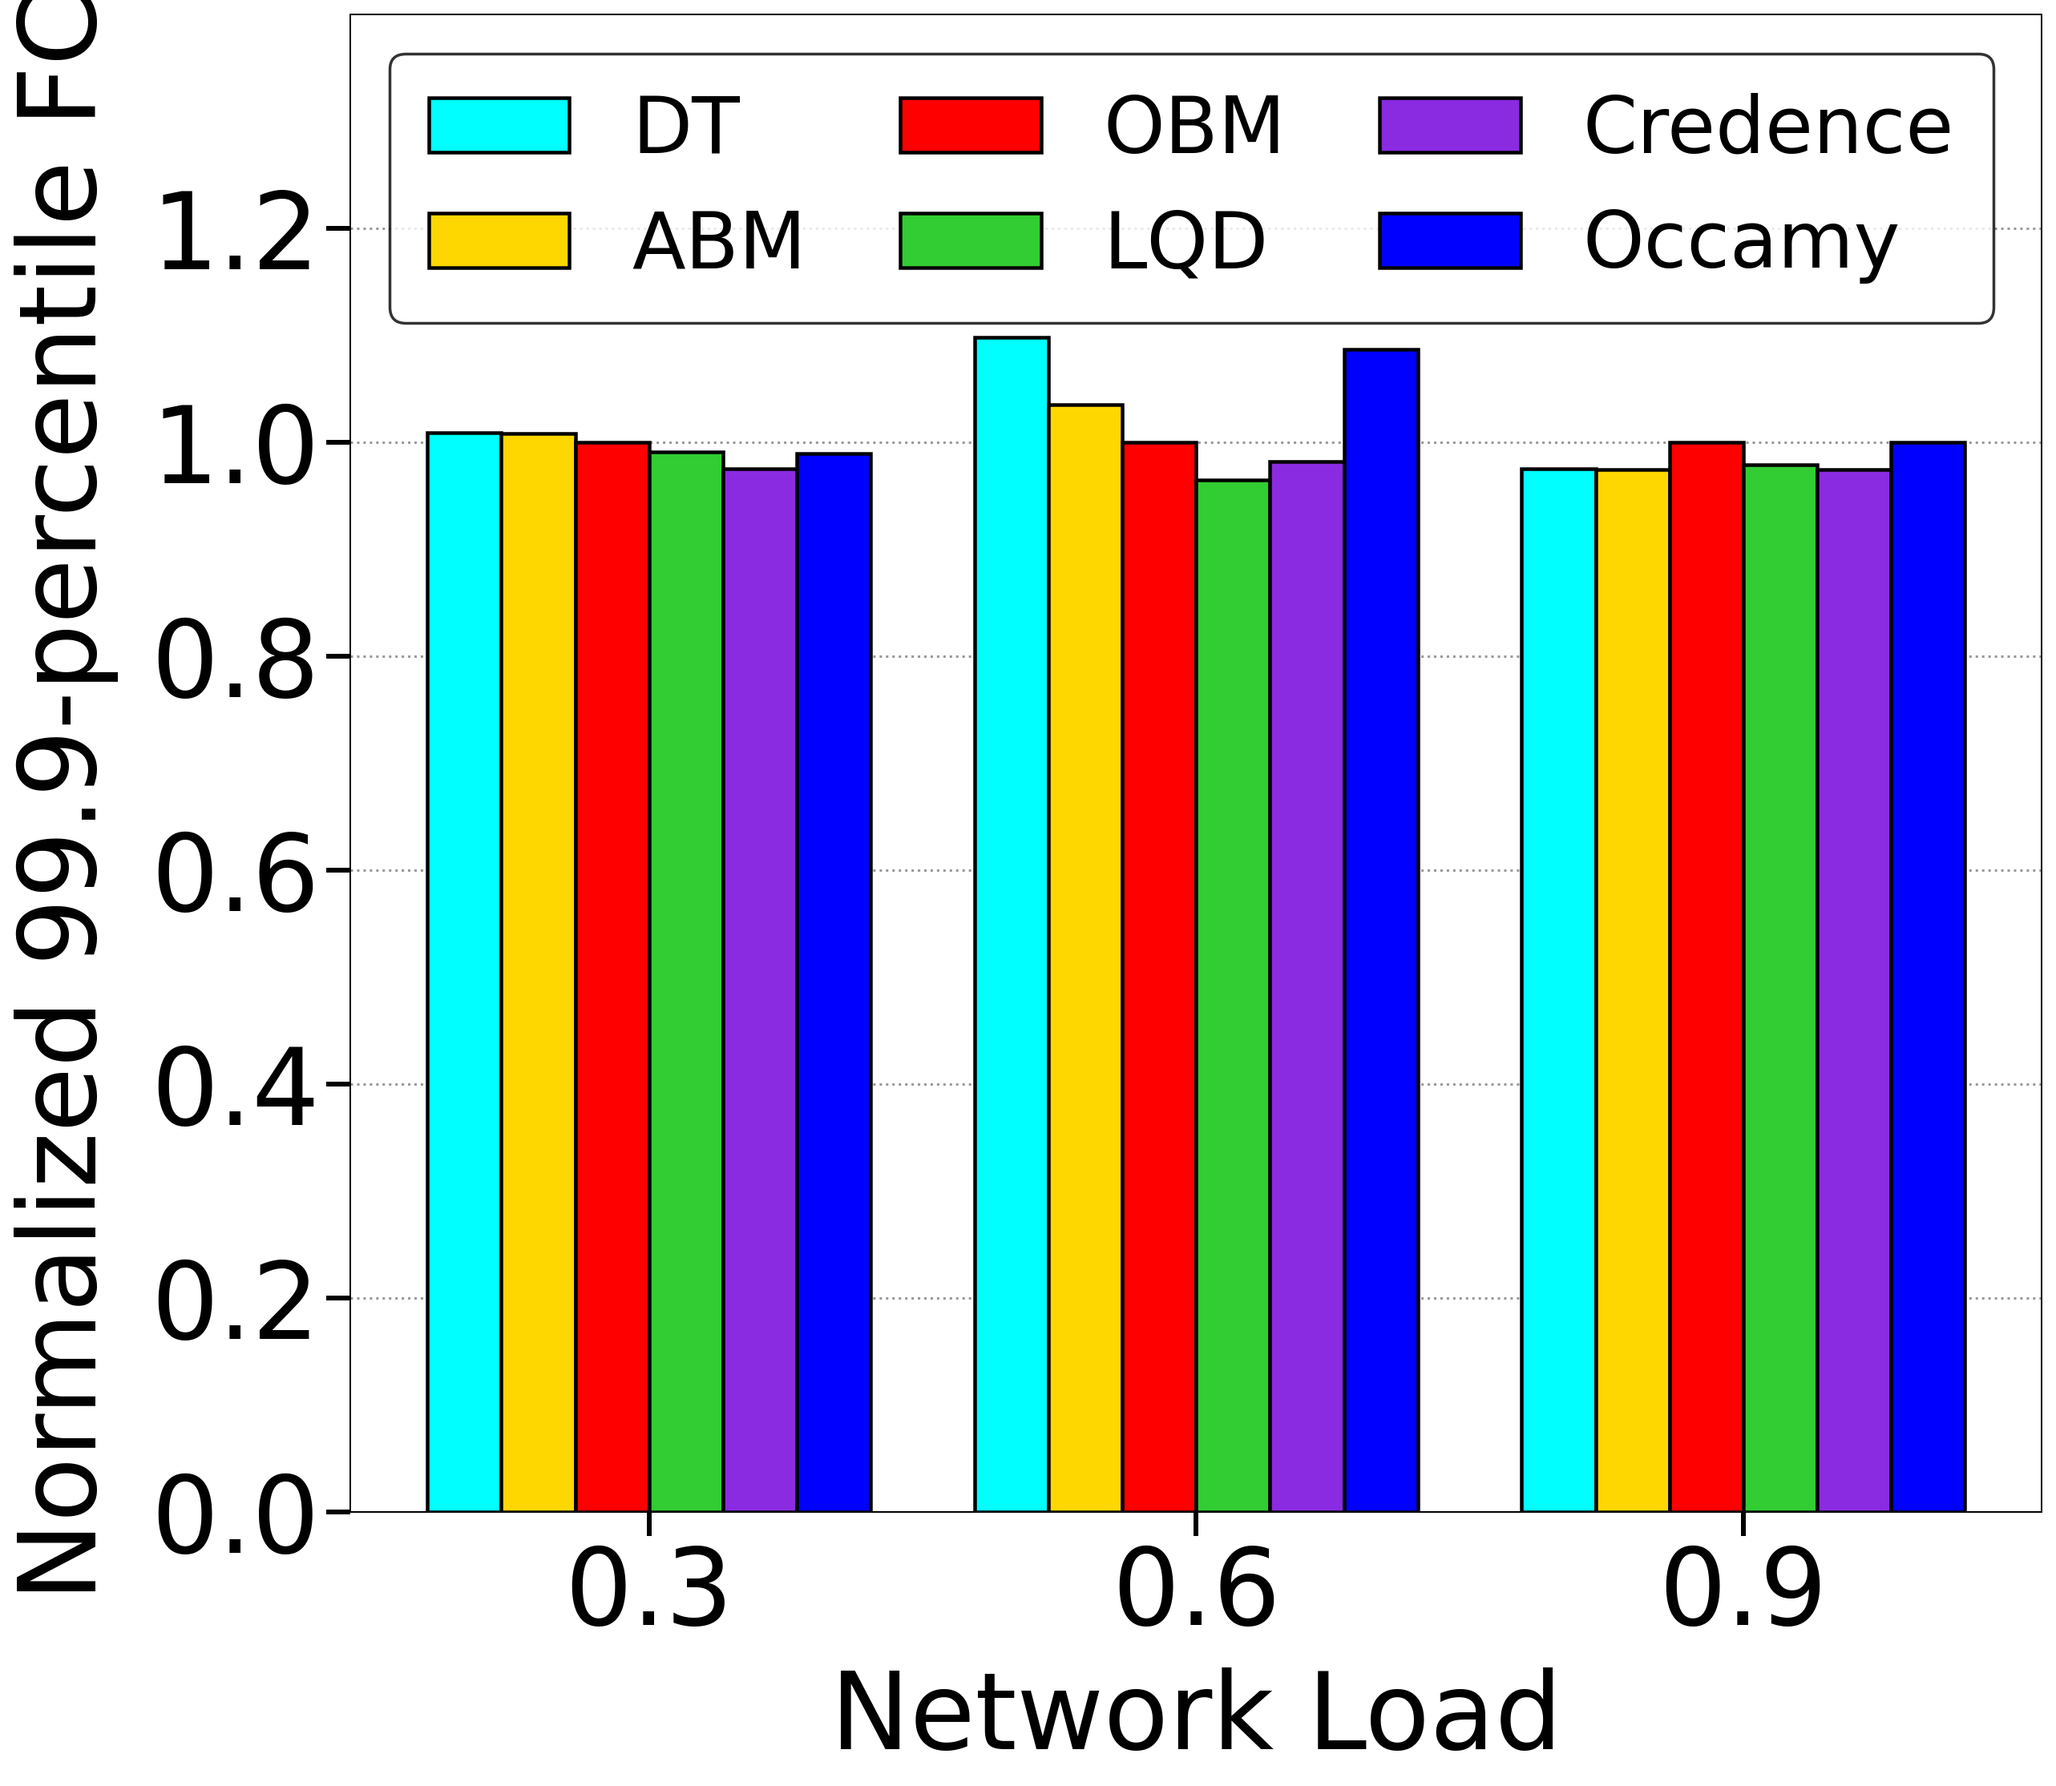
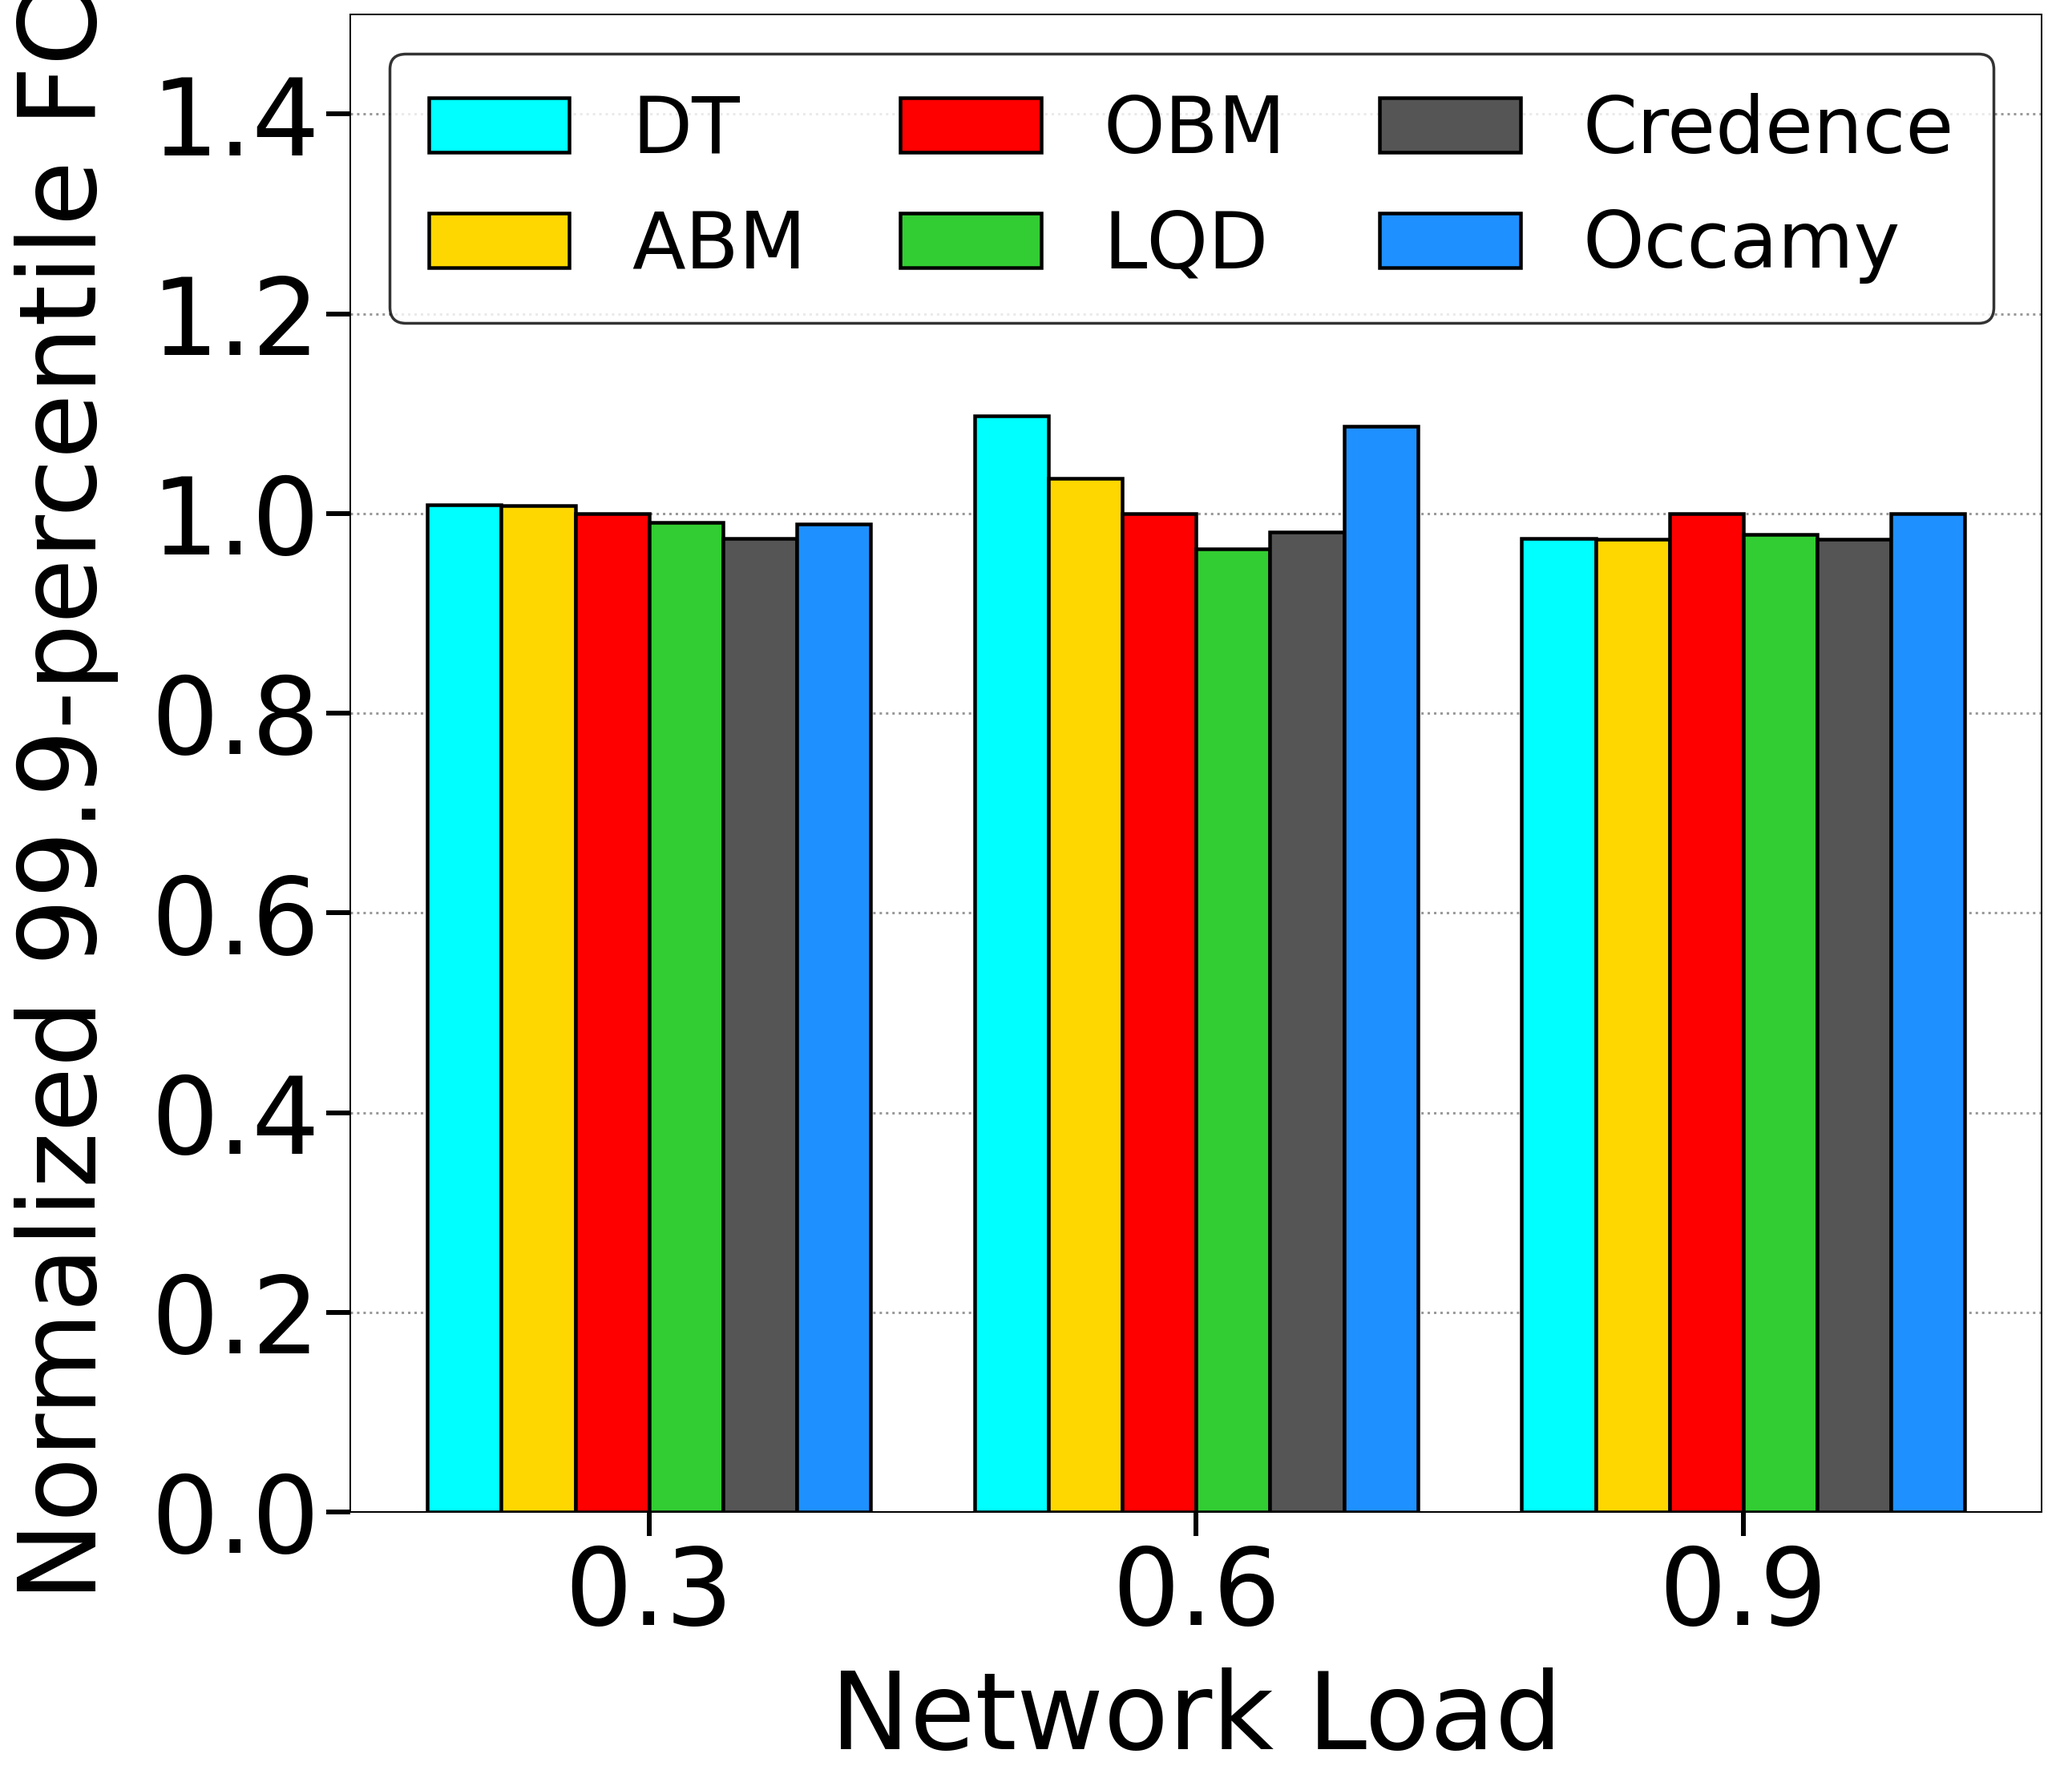
fixed graph for websearch

diff --git a/obm-sim/plot_fct.py b/obm-sim/plot_fct.py
@@ -37,8 +37,8 @@ ALGO_META = {
     "abm":      ("ABM",      "#FFD700"),
     "obm":      ("OBM",      "#FF0000"),
     "lqd":      ("LQD",      "#32CD32"),
-    "credence": ("Credence", "#8A2BE2"),
-    "occamy":   ("Occamy",   "#0000FF"), # Blue
+    "credence": ("Credence", "#555555"),
+    "occamy":   ("Occamy",   "#1E90FF"), # Added Occamy (Blue)
 }
 
 # Added Occamy to the ordering
@@ -120,7 +120,7 @@ def compact_even_ticks(ax, max_ticks: int, bottom: float = 0.0):
         ax.tick_params(axis="y", labelsize=YTICK_FONTSIZE, length=TICK_LENGTH, width=TICK_WIDTH)
         return
     delta = ticks[1] - ticks[0]
-    ax.set_ylim(top=ticks[-1] + delta, bottom=bottom)
+    ax.set_ylim(top=ticks[-1] + 1.5*delta, bottom=bottom)
     ax.yaxis.set_major_locator(locator)
     ticks2 = [t for t in ax.get_yticks() if t >= bottom]
     if len(ticks2) >= 2:
